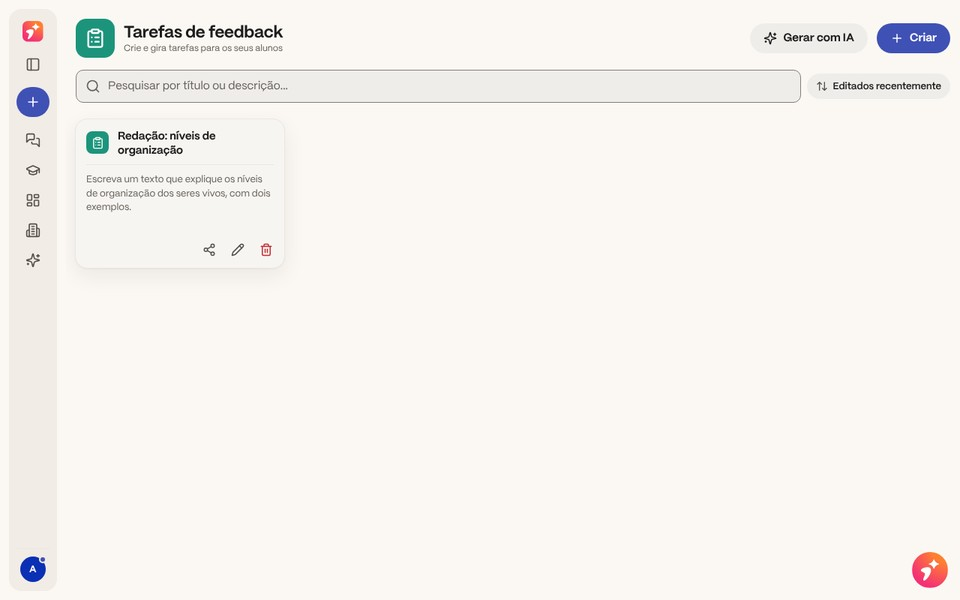
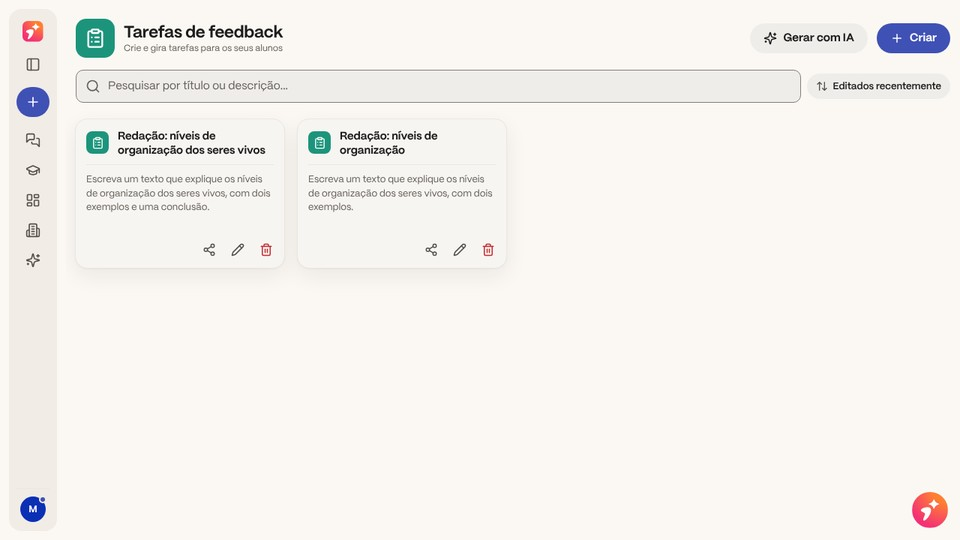
Capturas en portugués equivalentes a las españolas: buscar, menú, idioma, unirse, subir documento y tareas de corrección
Claude-Session: https://claude.ai/code/session_01Eik173jfn4Xqssn59JmxJK

diff --git a/single/content-expansions.py b/single/content-expansions.py
@@ -825,3 +825,30 @@ def apply_link_fix(merged: dict) -> None:
                     if r2 in ids and r2 != a['id'] and r2 not in fixed:
                         fixed.append(r2)
                 a[field] = fixed
+
+
+# Capturas en portugués equivalentes a las españolas (misma pantalla y mismo paso numerado).
+def _pt_shots(article, mapping, alts):
+    MERGE_TEXT['pt-BR'].setdefault(article, {})
+    MERGE_TEXT['pt-BR'][article]['img'] = list(mapping.values())
+    MERGE_TEXT['pt-BR'][article]['stepImg'] = {str(k): v for k, v in mapping.items()}
+    MERGE_TEXT['pt-BR'][article]['shots'] = {v: alts[v] for v in mapping.values()}
+
+_pt_shots('buscar-contenido', {1: 'pt__buscar-contenido__pt-biblioteca'},
+          {'pt__buscar-contenido__pt-biblioteca': 'Biblioteca com a pesquisa de todo o conteúdo no passo 1'})
+_pt_shots('beta', {1: 'pt__beta__pt-menu-cuenta'},
+          {'pt__beta__pt-menu-cuenta': 'Menu da conta com o item O que há de novo no passo 1'})
+_pt_shots('idioma-no-cambia', {1: 'pt__idioma-no-cambia__pt-menu-idioma'},
+          {'pt__idioma-no-cambia__pt-menu-idioma': 'Menu da conta com a opção Idioma e a lista de idiomas'})
+_pt_shots('unirse-curso', {1: 'pt__unirse-curso__pt-unirse-dialogo'},
+          {'pt__unirse-curso__pt-unirse-dialogo': 'Diálogo Aderir a um curso com o campo do código de adesão no passo 1'})
+_pt_shots('subir-documento', {1: 'pt__subir-documento__pt-biblioteca-inicio', 2: 'pt__subir-documento__pt-biblioteca-documentos'},
+          {'pt__subir-documento__pt-biblioteca-inicio': 'Biblioteca com o cartão Carregar documento no passo 1',
+           'pt__subir-documento__pt-biblioteca-documentos': 'Minha biblioteca com o botão Conteúdo e a pesquisa de documentos nos passos 1 e 2'})
+
+_pt_shots('tarea-correccion-biblioteca', {1: 'pt__tarea-correccion-biblioteca__pt-tarea-lista', 5: 'pt__tarea-correccion-biblioteca__pt-tarea-formulario'},
+          {'pt__tarea-correccion-biblioteca__pt-tarea-lista': 'Lista de Tarefas de correção e feedback com o botão Criar no passo 1',
+           'pt__tarea-correccion-biblioteca__pt-tarea-formulario': 'Formulário Criar tarefa de feedback com título, descrição, solução modelo e botão Criar'})
+MERGE_TEXT['pt-BR'].setdefault('tarea-calibrar', {})
+MERGE_TEXT['pt-BR']['tarea-calibrar']['img'] = ['pt-tarea-lista']
+MERGE_TEXT['pt-BR']['tarea-calibrar']['shots'] = {'pt-tarea-lista': 'Lista de Tarefas de correção e feedback com as tarefas criadas'}
